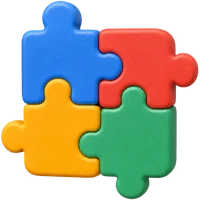
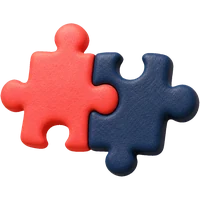
design: die elf neuen Objekte sind drin
Wolf hat sie rendern lassen, nach der Vorgabe von vorhin: 1024 px, PNG mit
Transparenz, kein Bodenschatten, Creme als Koerper, Gold als Akzent, dunkles
Blau fuer Sockel, kein Pink. Geprueft und alle elf bestanden: RGBA, echte
Transparenz, Motiv zentriert, Anteil zwischen 0,71 und 0,88.

Silhouettenprobe auf 48 px, weil sie auf dem Handy so klein stehen: zehn von
elf sofort erkennbar. Die Aufstelltafel ist grenzwertig, wie ich es beim
Vorschlagen befuerchtet hatte, die Beine retten sie knapp. Falls sie im
Betrieb nicht traegt, waere ein Cocktailglas der Ersatz.

Station 02, A4 Objektgruppe, drei je Anlass:
  Firma oder Team    Namensschild, Sektglaeser, Wimpel
  Private Feier      Torte, Luftballons, Geschenk
  Cafe, Bar, Pub     Bierglas, Kaffeetasse, Aufstelltafel

Hero: der Wuerfel weicht der Sanduhr (Timing) und die Truhe dem Puzzle
(Teamgeist). Damit passt jedes der fuenf Woerter zu seinem Objekt, vorher
waren zwei davon falsch. Der Preis: zwei der fuenf Kacheln zeigen jetzt ein
Motiv, das im Spiel kein Team waehlen kann. Der Tausch ist trotzdem richtig,
denn eine Kachel, die das falsche Wort illustriert, ist schlechter als eine,
die nicht im Avatarsatz steht. Wandern beide Motive spaeter in den Satz der
App, loest sich der Rest von selbst. Steht so im Code.

Gemessen: alle fuenf Woerter tragen die Farbe ihrer Kachel, genau eine
Kachel hell und vier gedimmt, waagerechter Ueberlauf 0 px, keine
Konsolenfehler, alle 35 referenzierten Bilddateien vorhanden.

diff --git a/src/pages/OnePage.tsx b/src/pages/OnePage.tsx
@@ -70,10 +70,10 @@ const FACTIONS = [
 // EINZIGE das Ueberschwingen, nach der Hausregel „Overshoot nur fuer den
 // einen Beat pro Bildschirm".
 const GRUPPE = [
-  { av: '/assets/av-qq-treasure-chest.webp', farbe: '#F97316', gr: 40, x: 4,  y: 6,  r: -8,  d: 0.30, beat: true,  tx: '-22px', ty: '-14px', tr: '-13deg' },
+  { av: '/assets/obj-puzzle.webp',           farbe: '#F97316', gr: 40, x: 4,  y: 6,  r: -8,  d: 0.30, beat: true,  tx: '-22px', ty: '-14px', tr: '-13deg' },
   { av: '/assets/av-qq-crystal-ball.webp',   farbe: '#A855F7', gr: 33, x: 46, y: 0,  r: 10,  d: 0.38, beat: false, tx: '18px',  ty: '-22px', tr: '16deg' },
   { av: '/assets/av-qq-mushroom.webp',       farbe: '#22C55E', gr: 30, x: 33, y: 44, r: 6,   d: 0.46, beat: false, tx: '-10px', ty: '20px',  tr: '11deg' },
-  { av: '/assets/av-qq-game-die.webp',       farbe: '#FACC15', gr: 24, x: 68, y: 40, r: -14, d: 0.54, beat: false, tx: '26px',  ty: '10px',  tr: '-20deg' },
+  { av: '/assets/obj-sanduhr.webp',          farbe: '#FACC15', gr: 24, x: 68, y: 40, r: -14, d: 0.54, beat: false, tx: '26px',  ty: '10px',  tr: '-20deg' },
   { av: '/assets/av-qq-table-lamp.webp',     farbe: '#3B82F6', gr: 21, x: 12, y: 66, r: 14,  d: 0.62, beat: false, tx: '-26px', ty: '24px',  tr: '20deg' },
 ];
 
@@ -91,12 +91,17 @@ const GRUPPE = [
  *
  *   Wissen      -> Tischlampe      Licht geht auf.        Sitzt.
  *   Glueck      -> Fliegenpilz     Glueckspilz.           Sitzt.
- *   Timing      -> Wuerfel         SCHWACH: der Wuerfel ist Zufall, nicht
- *                                  Timing. Im Objektsatz der App gibt es
- *                                  weder Uhr noch Sanduhr.
- *   Teamgeist   -> Truhe           Der gemeinsame Schatz. Mittel; „puzzle"
- *                                  aus dem Satz waere deutlicher.
+ *   Timing      -> Sanduhr         Die Zeit laeuft.       Sitzt.
+ *   Teamgeist   -> Puzzle          Zwei greifen ineinander. Sitzt.
  *   Bauchgefuehl-> Kristallkugel   Ahnung statt Wissen.   Sitzt.
+ *
+ * Sanduhr und Puzzle sind eigens gerendert (2026-08-27), weil der Objektsatz
+ * der App weder Uhr noch Puzzle hat. Damit stehen zwei der fuenf Kacheln im
+ * Hero nicht mehr fuer ein Motiv, das ein Team im Spiel waehlen kann. Der
+ * Tausch ist trotzdem richtig: der Wuerfel bedeutete Zufall, nicht Timing,
+ * und eine Kachel, die das falsche Wort illustriert, ist schlechter als eine,
+ * die nicht im Spiel vorkommt. Wenn beide Motive spaeter in den Avatarsatz
+ * der App wandern, loest sich der Rest von selbst.
  */
 const WORT_OBJEKT = [4, 2, 3, 0, 1];
 

diff --git a/src/pages/Mockups.tsx b/src/pages/Mockups.tsx
@@ -446,7 +446,9 @@ const ANLASS_ACC = ['#FA4BA3', '#FFC7E4', '#FF7AC0'];
  * Drei Objekte statt einem, weil ein einzelnes den Anlass nie trifft: eine
  * Torte allein ist ein Kuchen, Torte mit Luftballons und Geschenk ist ein
  * Geburtstag. Alle neun stammen aus dem Objektsatz der App
- * (KioskQuiz frontend/public/avatars, Ordner party und cozyquiz).
+ * eigens gerendert, nicht aus einem Emoji-Satz zusammengesucht: creme
+ * Koerper, Gold als Akzent, dunkles Blau fuer Sockel, hoechstens ein
+ * weiterer Ton je Objekt. Kein Pink, das ist Marke.
  *
  * gr = Kantenlaenge in Prozent des Feldes, x/y = Position, r = Drehung.
  * Dieselbe Staffelung wie im Hero: das groesste Objekt vorn und leicht
@@ -455,19 +457,19 @@ const ANLASS_ACC = ['#FA4BA3', '#FFC7E4', '#FF7AC0'];
 type Obj = { av: string; gr: number; x: number; y: number; r: number };
 const ANLASS_GRUPPEN: Obj[][] = [
   [
-    { av: '/assets/obj-champagne.webp', gr: 58, x: 0,  y: 8,  r: -9 },
-    { av: '/assets/obj-puzzle.webp',    gr: 44, x: 50, y: 0,  r: 11 },
-    { av: '/assets/obj-disco.webp',     gr: 38, x: 40, y: 52, r: -6 },
+    { av: '/assets/obj-namensschild.webp', gr: 54, x: 0,  y: 10, r: -9 },
+    { av: '/assets/obj-sekt.webp',         gr: 48, x: 48, y: 0,  r: 10 },
+    { av: '/assets/obj-wimpel.webp',       gr: 38, x: 42, y: 52, r: -6 },
   ],
   [
-    { av: '/assets/obj-cake.webp',      gr: 58, x: 2,  y: 10, r: -7 },
-    { av: '/assets/obj-balloons.webp',  gr: 46, x: 52, y: 0,  r: 9 },
-    { av: '/assets/obj-gift.webp',      gr: 36, x: 44, y: 54, r: -12 },
+    { av: '/assets/obj-torte.webp',    gr: 56, x: 2,  y: 10, r: -7 },
+    { av: '/assets/obj-ballons.webp',  gr: 46, x: 52, y: 0,  r: 9 },
+    { av: '/assets/obj-geschenk.webp', gr: 38, x: 44, y: 54, r: -12 },
   ],
   [
-    { av: '/assets/obj-martini.webp',      gr: 56, x: 4,  y: 6,  r: -8 },
-    { av: '/assets/obj-croissant.webp',    gr: 44, x: 52, y: 4,  r: 12 },
-    { av: '/assets/obj-playing-card.webp', gr: 40, x: 38, y: 56, r: -5 },
+    { av: '/assets/obj-bier.webp',   gr: 54, x: 2,  y: 8,  r: -8 },
+    { av: '/assets/obj-kaffee.webp', gr: 46, x: 50, y: 2,  r: 11 },
+    { av: '/assets/obj-tafel.webp',  gr: 40, x: 40, y: 54, r: -5 },
   ],
 ];
 function Anlaesse({ L, mobil, entwurf }: {

diff --git a/src/qqKachel.ts b/src/qqKachel.ts
@@ -46,9 +46,11 @@ const FILL: Record<string, number> = {
   // quadratisch zentriert worden, anders als die Team-Motive aus der App.
   // Deshalb brauchen sie einen kleineren Anteil, sonst stossen sie an die
   // Kachelkante. 0.72 gemessen gegen die Team-Kacheln daneben.
-  '/assets/anlass-firma.webp': 0.72,
-  '/assets/anlass-geburtstag.webp': 0.72,
-  '/assets/anlass-pub.webp': 0.72,
+  // Sanduhr und Puzzle im Hero: eigens gerendert und exakt auf ihre
+  // Bounding-Box beschnitten, anders als die App-Motive. Deshalb ein
+  // kleinerer Anteil, sonst stossen sie an die Kachelkante.
+  '/assets/obj-sanduhr.webp': 0.74,
+  '/assets/obj-puzzle.webp': 0.78,
   'crystal-ball': 0.89,
   'game-die': 0.78,
   'mushroom': 0.92,
